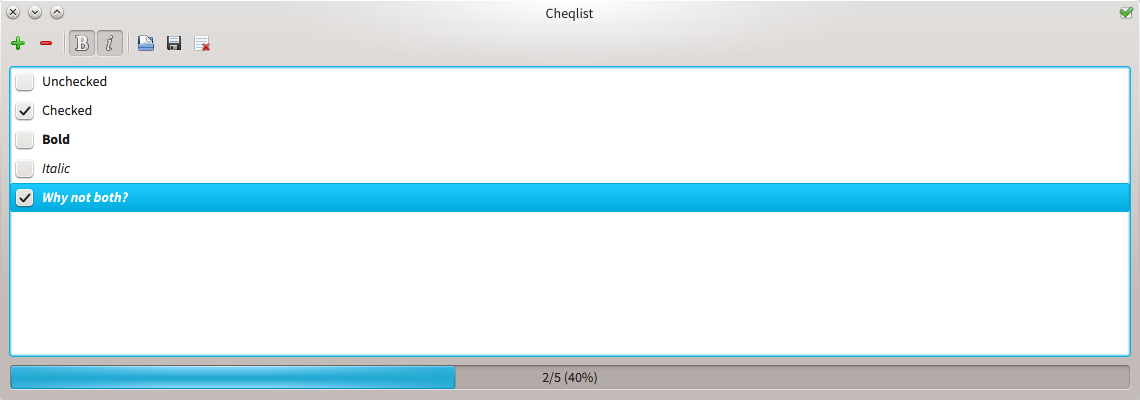
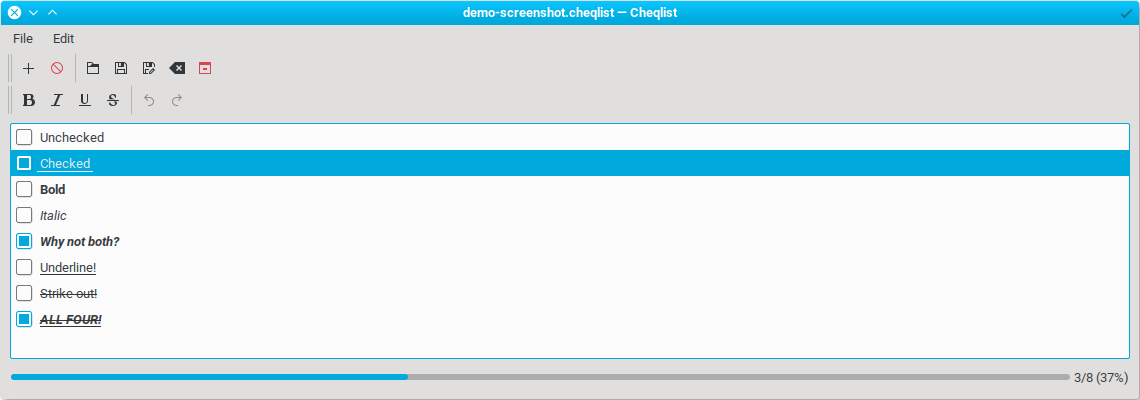
Update cheqlist screenshot

diff --git a/output/listings/code-writing-code/write_properties.py.html b/output/listings/code-writing-code/write_properties.py.html
@@ -122,44 +122,44 @@ article: http://ogp.me/ns/article#
 <a href="#listingscode-writing-codewrite_propertiespy-36">36</a>
 <a href="#listingscode-writing-codewrite_propertiespy-37">37</a>
 <a href="#listingscode-writing-codewrite_propertiespy-38">38</a></pre></div></td>
-<td class="code"><pre class="code literal-block"><a name="listingscode-writing-codewrite_propertiespy-1"></a><span class="ch">#!/usr/bin/env python3</span>
-<a name="listingscode-writing-codewrite_propertiespy-2"></a><span class="n">TEMPLATE</span> <span class="o">=</span> <span class="s2">"""</span><span class="se">\</span>
-<a name="listingscode-writing-codewrite_propertiespy-3"></a><span class="s2">        </span><span class="si">%s</span><span class="s2">public </span><span class="si">%s</span><span class="s2"> </span><span class="si">%s</span><span class="s2"> {</span>
-<a name="listingscode-writing-codewrite_propertiespy-4"></a><span class="s2">            get {</span>
-<a name="listingscode-writing-codewrite_propertiespy-5"></a><span class="s2">                return </span><span class="si">%s</span><span class="s2">_;</span>
-<a name="listingscode-writing-codewrite_propertiespy-6"></a><span class="s2">            }</span>
-<a name="listingscode-writing-codewrite_propertiespy-7"></a><span class="s2">            set {</span>
-<a name="listingscode-writing-codewrite_propertiespy-8"></a><span class="s2">                if (value != </span><span class="si">%s</span><span class="s2">_) {</span>
-<a name="listingscode-writing-codewrite_propertiespy-9"></a><span class="s2">                    </span><span class="si">%s</span><span class="s2">_ = value;</span>
-<a name="listingscode-writing-codewrite_propertiespy-10"></a><span class="s2">                    NotifyPropertyChanged("</span><span class="si">%s</span><span class="s2">");</span>
-<a name="listingscode-writing-codewrite_propertiespy-11"></a><span class="s2">                }</span>
-<a name="listingscode-writing-codewrite_propertiespy-12"></a><span class="s2">            }</span>
-<a name="listingscode-writing-codewrite_propertiespy-13"></a><span class="s2">        }</span>
-<a name="listingscode-writing-codewrite_propertiespy-14"></a><span class="s2">"""</span>
-<a name="listingscode-writing-codewrite_propertiespy-15"></a><span class="n">JSONPROPERTY_TEMPLATE</span> <span class="o">=</span> <span class="s1">'[JsonProperty]</span><span class="se">\n</span><span class="s1">        '</span>
+<td class="code"><pre class="code literal-block"><a name="listingscode-writing-codewrite_propertiespy-1"></a><span class="c">#!/usr/bin/env python3</span>
+<a name="listingscode-writing-codewrite_propertiespy-2"></a><span class="n">TEMPLATE</span> <span class="o">=</span> <span class="s">"""</span><span class="se">\</span>
+<a name="listingscode-writing-codewrite_propertiespy-3"></a><span class="s">        </span><span class="si">%s</span><span class="s">public </span><span class="si">%s</span><span class="s"> </span><span class="si">%s</span><span class="s"> {</span>
+<a name="listingscode-writing-codewrite_propertiespy-4"></a><span class="s">            get {</span>
+<a name="listingscode-writing-codewrite_propertiespy-5"></a><span class="s">                return </span><span class="si">%s</span><span class="s">_;</span>
+<a name="listingscode-writing-codewrite_propertiespy-6"></a><span class="s">            }</span>
+<a name="listingscode-writing-codewrite_propertiespy-7"></a><span class="s">            set {</span>
+<a name="listingscode-writing-codewrite_propertiespy-8"></a><span class="s">                if (value != </span><span class="si">%s</span><span class="s">_) {</span>
+<a name="listingscode-writing-codewrite_propertiespy-9"></a><span class="s">                    </span><span class="si">%s</span><span class="s">_ = value;</span>
+<a name="listingscode-writing-codewrite_propertiespy-10"></a><span class="s">                    NotifyPropertyChanged("</span><span class="si">%s</span><span class="s">");</span>
+<a name="listingscode-writing-codewrite_propertiespy-11"></a><span class="s">                }</span>
+<a name="listingscode-writing-codewrite_propertiespy-12"></a><span class="s">            }</span>
+<a name="listingscode-writing-codewrite_propertiespy-13"></a><span class="s">        }</span>
+<a name="listingscode-writing-codewrite_propertiespy-14"></a><span class="s">"""</span>
+<a name="listingscode-writing-codewrite_propertiespy-15"></a><span class="n">JSONPROPERTY_TEMPLATE</span> <span class="o">=</span> <span class="s">'[JsonProperty]</span><span class="se">\n</span><span class="s">        '</span>
 <a name="listingscode-writing-codewrite_propertiespy-16"></a>
 <a name="listingscode-writing-codewrite_propertiespy-17"></a><span class="k">def</span> <span class="nf">write</span><span class="p">(</span><span class="n">has_jsonproperty</span><span class="p">,</span> <span class="n">vtype</span><span class="p">,</span> <span class="n">name</span><span class="p">):</span>
 <a name="listingscode-writing-codewrite_propertiespy-18"></a>    <span class="k">if</span> <span class="n">has_jsonproperty</span><span class="p">:</span>
 <a name="listingscode-writing-codewrite_propertiespy-19"></a>        <span class="n">jsonproperty</span> <span class="o">=</span> <span class="n">JSONPROPERTY_TEMPLATE</span>
 <a name="listingscode-writing-codewrite_propertiespy-20"></a>    <span class="k">else</span><span class="p">:</span>
-<a name="listingscode-writing-codewrite_propertiespy-21"></a>        <span class="n">jsonproperty</span> <span class="o">=</span> <span class="s1">''</span>
+<a name="listingscode-writing-codewrite_propertiespy-21"></a>        <span class="n">jsonproperty</span> <span class="o">=</span> <span class="s">''</span>
 <a name="listingscode-writing-codewrite_propertiespy-22"></a>    <span class="k">return</span> <span class="n">TEMPLATE</span> <span class="o">%</span> <span class="p">(</span><span class="n">jsonproperty</span><span class="p">,</span> <span class="n">vtype</span><span class="p">,</span> <span class="n">name</span><span class="p">,</span> <span class="n">name</span><span class="p">,</span> <span class="n">name</span><span class="p">,</span> <span class="n">name</span><span class="p">,</span> <span class="n">name</span><span class="p">)</span>
 <a name="listingscode-writing-codewrite_propertiespy-23"></a>
 <a name="listingscode-writing-codewrite_propertiespy-24"></a><span class="n">properties</span> <span class="o">=</span> <span class="p">[</span>
-<a name="listingscode-writing-codewrite_propertiespy-25"></a>    <span class="s1">'1 string name'</span><span class="p">,</span>
-<a name="listingscode-writing-codewrite_propertiespy-26"></a>    <span class="s1">'0 int another'</span><span class="p">,</span>
-<a name="listingscode-writing-codewrite_propertiespy-27"></a>    <span class="c1"># 12 fields omitted for brevity</span>
+<a name="listingscode-writing-codewrite_propertiespy-25"></a>    <span class="s">'1 string name'</span><span class="p">,</span>
+<a name="listingscode-writing-codewrite_propertiespy-26"></a>    <span class="s">'0 int another'</span><span class="p">,</span>
+<a name="listingscode-writing-codewrite_propertiespy-27"></a>    <span class="c"># 12 fields omitted for brevity</span>
 <a name="listingscode-writing-codewrite_propertiespy-28"></a><span class="p">]</span>
 <a name="listingscode-writing-codewrite_propertiespy-29"></a><span class="n">properties_split</span> <span class="o">=</span> <span class="p">[</span><span class="n">p</span><span class="o">.</span><span class="n">split</span><span class="p">()</span> <span class="k">for</span> <span class="n">p</span> <span class="ow">in</span> <span class="n">properties</span><span class="p">]</span>
 <a name="listingscode-writing-codewrite_propertiespy-30"></a>
-<a name="listingscode-writing-codewrite_propertiespy-31"></a><span class="c1"># Private definitions (internal)</span>
+<a name="listingscode-writing-codewrite_propertiespy-31"></a><span class="c"># Private definitions (internal)</span>
 <a name="listingscode-writing-codewrite_propertiespy-32"></a><span class="k">for</span> <span class="n">has_jsonproperty</span><span class="p">,</span> <span class="n">vtype</span><span class="p">,</span> <span class="n">name</span> <span class="ow">in</span> <span class="n">properties_split</span><span class="p">:</span>
-<a name="listingscode-writing-codewrite_propertiespy-33"></a>    <span class="k">print</span><span class="p">(</span><span class="s2">"        private </span><span class="si">%s</span><span class="s2"> </span><span class="si">%s</span><span class="s2">_ { get; set; }"</span> <span class="o">%</span> <span class="p">(</span><span class="n">vtype</span><span class="p">,</span> <span class="n">name</span><span class="p">))</span>
+<a name="listingscode-writing-codewrite_propertiespy-33"></a>    <span class="k">print</span><span class="p">(</span><span class="s">"        private </span><span class="si">%s</span><span class="s"> </span><span class="si">%s</span><span class="s">_ { get; set; }"</span> <span class="o">%</span> <span class="p">(</span><span class="n">vtype</span><span class="p">,</span> <span class="n">name</span><span class="p">))</span>
 <a name="listingscode-writing-codewrite_propertiespy-34"></a>
 <a name="listingscode-writing-codewrite_propertiespy-35"></a><span class="k">print</span><span class="p">()</span>
-<a name="listingscode-writing-codewrite_propertiespy-36"></a><span class="c1"># Public definitions (with notifications)</span>
+<a name="listingscode-writing-codewrite_propertiespy-36"></a><span class="c"># Public definitions (with notifications)</span>
 <a name="listingscode-writing-codewrite_propertiespy-37"></a><span class="k">for</span> <span class="n">has_jsonproperty</span><span class="p">,</span> <span class="n">vtype</span><span class="p">,</span> <span class="n">name</span> <span class="ow">in</span> <span class="n">properties_split</span><span class="p">:</span>
-<a name="listingscode-writing-codewrite_propertiespy-38"></a>    <span class="k">print</span><span class="p">(</span><span class="n">write</span><span class="p">(</span><span class="n">has_jsonproperty</span> <span class="o">==</span> <span class="s1">'1'</span><span class="p">,</span> <span class="n">vtype</span><span class="p">,</span> <span class="n">name</span><span class="p">))</span>
+<a name="listingscode-writing-codewrite_propertiespy-38"></a>    <span class="k">print</span><span class="p">(</span><span class="n">write</span><span class="p">(</span><span class="n">has_jsonproperty</span> <span class="o">==</span> <span class="s">'1'</span><span class="p">,</span> <span class="n">vtype</span><span class="p">,</span> <span class="n">name</span><span class="p">))</span>
 </pre></td>
 </tr></table>
 </div>

diff --git a/output/listings/entry_points_project/my_project/__main__.py.html b/output/listings/entry_points_project/my_project/__main__.py.html
@@ -109,9 +109,9 @@ article: http://ogp.me/ns/article#
 <a href="#listingsentry_points_projectmy_project__main__py-22">22</a></pre></div></td>
 <td class="code"><pre class="code literal-block"><a name="listingsentry_points_projectmy_project__main__py-1"></a><span class="sd">"""The main routine of my_project."""</span>
 <a name="listingsentry_points_projectmy_project__main__py-2"></a>
-<a name="listingsentry_points_projectmy_project__main__py-3"></a><span class="c1"># Copyright (C) 2014 Chris Warrick.</span>
-<a name="listingsentry_points_projectmy_project__main__py-4"></a><span class="c1"># From: http://chriswarrick.com/</span>
-<a name="listingsentry_points_projectmy_project__main__py-5"></a><span class="c1"># License: CC BY http://creativecommons.org/licenses/by/3.0/</span>
+<a name="listingsentry_points_projectmy_project__main__py-3"></a><span class="c"># Copyright (C) 2014 Chris Warrick.</span>
+<a name="listingsentry_points_projectmy_project__main__py-4"></a><span class="c"># From: http://chriswarrick.com/</span>
+<a name="listingsentry_points_projectmy_project__main__py-5"></a><span class="c"># License: CC BY http://creativecommons.org/licenses/by/3.0/</span>
 <a name="listingsentry_points_projectmy_project__main__py-6"></a>
 <a name="listingsentry_points_projectmy_project__main__py-7"></a><span class="kn">import</span> <span class="nn">sys</span>
 <a name="listingsentry_points_projectmy_project__main__py-8"></a>
@@ -121,13 +121,13 @@ article: http://ogp.me/ns/article#
 <a name="listingsentry_points_projectmy_project__main__py-12"></a>    <span class="k">if</span> <span class="n">args</span> <span class="ow">is</span> <span class="bp">None</span><span class="p">:</span>
 <a name="listingsentry_points_projectmy_project__main__py-13"></a>        <span class="n">args</span> <span class="o">=</span> <span class="n">sys</span><span class="o">.</span><span class="n">argv</span><span class="p">[</span><span class="mi">1</span><span class="p">:]</span>
 <a name="listingsentry_points_projectmy_project__main__py-14"></a>
-<a name="listingsentry_points_projectmy_project__main__py-15"></a>    <span class="k">print</span><span class="p">(</span><span class="s2">"This is the main routine."</span><span class="p">)</span>
-<a name="listingsentry_points_projectmy_project__main__py-16"></a>    <span class="k">print</span><span class="p">(</span><span class="s2">"It should do something interesting."</span><span class="p">)</span>
+<a name="listingsentry_points_projectmy_project__main__py-15"></a>    <span class="k">print</span><span class="p">(</span><span class="s">"This is the main routine."</span><span class="p">)</span>
+<a name="listingsentry_points_projectmy_project__main__py-16"></a>    <span class="k">print</span><span class="p">(</span><span class="s">"It should do something interesting."</span><span class="p">)</span>
 <a name="listingsentry_points_projectmy_project__main__py-17"></a>
-<a name="listingsentry_points_projectmy_project__main__py-18"></a>    <span class="c1"># Do argument parsing here (eg. with argparse) and anything else</span>
-<a name="listingsentry_points_projectmy_project__main__py-19"></a>    <span class="c1"># you want your project to do.</span>
+<a name="listingsentry_points_projectmy_project__main__py-18"></a>    <span class="c"># Do argument parsing here (eg. with argparse) and anything else</span>
+<a name="listingsentry_points_projectmy_project__main__py-19"></a>    <span class="c"># you want your project to do.</span>
 <a name="listingsentry_points_projectmy_project__main__py-20"></a>
-<a name="listingsentry_points_projectmy_project__main__py-21"></a><span class="k">if</span> <span class="n">__name__</span> <span class="o">==</span> <span class="s2">"__main__"</span><span class="p">:</span>
+<a name="listingsentry_points_projectmy_project__main__py-21"></a><span class="k">if</span> <span class="n">__name__</span> <span class="o">==</span> <span class="s">"__main__"</span><span class="p">:</span>
 <a name="listingsentry_points_projectmy_project__main__py-22"></a>    <span class="n">main</span><span class="p">()</span>
 </pre></td>
 </tr></table>

diff --git a/output/listings/entry_points_project/setup.py.html b/output/listings/entry_points_project/setup.py.html
@@ -99,18 +99,18 @@ article: http://ogp.me/ns/article#
 <a href="#listingsentry_points_projectsetuppy-13">13</a>
 <a href="#listingsentry_points_projectsetuppy-14">14</a>
 <a href="#listingsentry_points_projectsetuppy-15">15</a></pre></div></td>
-<td class="code"><pre class="code literal-block"><a name="listingsentry_points_projectsetuppy-1"></a><span class="c1"># Copyright (C) 2014 Chris Warrick.</span>
-<a name="listingsentry_points_projectsetuppy-2"></a><span class="c1"># From: http://chriswarrick.com/</span>
-<a name="listingsentry_points_projectsetuppy-3"></a><span class="c1"># License: CC BY http://creativecommons.org/licenses/by/3.0/</span>
+<td class="code"><pre class="code literal-block"><a name="listingsentry_points_projectsetuppy-1"></a><span class="c"># Copyright (C) 2014 Chris Warrick.</span>
+<a name="listingsentry_points_projectsetuppy-2"></a><span class="c"># From: http://chriswarrick.com/</span>
+<a name="listingsentry_points_projectsetuppy-3"></a><span class="c"># License: CC BY http://creativecommons.org/licenses/by/3.0/</span>
 <a name="listingsentry_points_projectsetuppy-4"></a>
 <a name="listingsentry_points_projectsetuppy-5"></a><span class="kn">from</span> <span class="nn">setuptools</span> <span class="kn">import</span> <span class="n">setup</span>
 <a name="listingsentry_points_projectsetuppy-6"></a>
-<a name="listingsentry_points_projectsetuppy-7"></a><span class="n">setup</span><span class="p">(</span><span class="n">name</span><span class="o">=</span><span class="s1">'my_project'</span><span class="p">,</span>
-<a name="listingsentry_points_projectsetuppy-8"></a>      <span class="n">version</span><span class="o">=</span><span class="s1">'0.1.0'</span><span class="p">,</span>
-<a name="listingsentry_points_projectsetuppy-9"></a>      <span class="n">packages</span><span class="o">=</span><span class="p">[</span><span class="s1">'my_project'</span><span class="p">],</span>
+<a name="listingsentry_points_projectsetuppy-7"></a><span class="n">setup</span><span class="p">(</span><span class="n">name</span><span class="o">=</span><span class="s">'my_project'</span><span class="p">,</span>
+<a name="listingsentry_points_projectsetuppy-8"></a>      <span class="n">version</span><span class="o">=</span><span class="s">'0.1.0'</span><span class="p">,</span>
+<a name="listingsentry_points_projectsetuppy-9"></a>      <span class="n">packages</span><span class="o">=</span><span class="p">[</span><span class="s">'my_project'</span><span class="p">],</span>
 <a name="listingsentry_points_projectsetuppy-10"></a>      <span class="n">entry_points</span><span class="o">=</span><span class="p">{</span>
-<a name="listingsentry_points_projectsetuppy-11"></a>          <span class="s1">'console_scripts'</span><span class="p">:</span> <span class="p">[</span>
-<a name="listingsentry_points_projectsetuppy-12"></a>              <span class="s1">'my_project = my_project.__main__:main'</span>
+<a name="listingsentry_points_projectsetuppy-11"></a>          <span class="s">'console_scripts'</span><span class="p">:</span> <span class="p">[</span>
+<a name="listingsentry_points_projectsetuppy-12"></a>              <span class="s">'my_project = my_project.__main__:main'</span>
 <a name="listingsentry_points_projectsetuppy-13"></a>          <span class="p">]</span>
 <a name="listingsentry_points_projectsetuppy-14"></a>      <span class="p">},</span>
 <a name="listingsentry_points_projectsetuppy-15"></a>      <span class="p">)</span>

diff --git a/output/listings/entry_points_project/my_project/__init__.py.html b/output/listings/entry_points_project/my_project/__init__.py.html
@@ -96,13 +96,13 @@ article: http://ogp.me/ns/article#
 <a href="#listingsentry_points_projectmy_project__init__py-9">9</a></pre></div></td>
 <td class="code"><pre class="code literal-block"><a name="listingsentry_points_projectmy_project__init__py-1"></a><span class="sd">"""A sample project, showcasing __main__.py and entry_points."""</span>
 <a name="listingsentry_points_projectmy_project__init__py-2"></a>
-<a name="listingsentry_points_projectmy_project__init__py-3"></a><span class="c1"># This is the __init__.py file of my_project, and is the root of the package.</span>
-<a name="listingsentry_points_projectmy_project__init__py-4"></a><span class="c1"># Put anything you want here, or even make it empty, but it MUST exist</span>
-<a name="listingsentry_points_projectmy_project__init__py-5"></a><span class="c1"># for everything to work.</span>
+<a name="listingsentry_points_projectmy_project__init__py-3"></a><span class="c"># This is the __init__.py file of my_project, and is the root of the package.</span>
+<a name="listingsentry_points_projectmy_project__init__py-4"></a><span class="c"># Put anything you want here, or even make it empty, but it MUST exist</span>
+<a name="listingsentry_points_projectmy_project__init__py-5"></a><span class="c"># for everything to work.</span>
 <a name="listingsentry_points_projectmy_project__init__py-6"></a>
-<a name="listingsentry_points_projectmy_project__init__py-7"></a><span class="c1"># Copyright (C) 2014 Chris Warrick.</span>
-<a name="listingsentry_points_projectmy_project__init__py-8"></a><span class="c1"># From: http://chriswarrick.com/</span>
-<a name="listingsentry_points_projectmy_project__init__py-9"></a><span class="c1"># License: CC BY http://creativecommons.org/licenses/by/3.0/</span>
+<a name="listingsentry_points_projectmy_project__init__py-7"></a><span class="c"># Copyright (C) 2014 Chris Warrick.</span>
+<a name="listingsentry_points_projectmy_project__init__py-8"></a><span class="c"># From: http://chriswarrick.com/</span>
+<a name="listingsentry_points_projectmy_project__init__py-9"></a><span class="c"># License: CC BY http://creativecommons.org/licenses/by/3.0/</span>
 </pre></td>
 </tr></table>
 </div>

diff --git a/output/pl/projects/cheqlist/index.html b/output/pl/projects/cheqlist/index.html
@@ -128,7 +128,8 @@ article: http://ogp.me/ns/article#
     </div>
 
           <div>
-<p><tt class="docutils literal">cheqlist</tt> is a simple check list application for&nbsp;Qt.</p>
+<p><tt class="docutils literal">cheqlist</tt> is a simple check list application for Qt. It supports formatting,
+file input/output, and an undo&nbsp;stack.</p>
 <div class="figure">
 <a class="reference external image-reference" href="/projects/_banners/cheqlist.png"><img alt="/projects/_banners/cheqlist.thumbnail.png" src="/projects/_banners/cheqlist.thumbnail.png"></a>
 <p class="caption">Cheqlist&nbsp;screenshot.</p>

diff --git a/output/projects/cheqlist/index.html b/output/projects/cheqlist/index.html
@@ -128,7 +128,8 @@ article: http://ogp.me/ns/article#
     </div>
 
           <div>
-<p><tt class="docutils literal">cheqlist</tt> is a simple check list application for&nbsp;Qt.</p>
+<p><tt class="docutils literal">cheqlist</tt> is a simple check list application for Qt. It supports formatting,
+file input/output, and an undo&nbsp;stack.</p>
 <div class="figure">
 <a class="reference external image-reference" href="/projects/_banners/cheqlist.png"><img alt="/projects/_banners/cheqlist.thumbnail.png" src="/projects/_banners/cheqlist.thumbnail.png"></a>
 <p class="caption">Cheqlist&nbsp;screenshot.</p>

diff --git a/output/assets/css/all.css b/output/assets/css/all.css
@@ -7384,6 +7384,14 @@ article.post-micro {
     border-top: 1px solid #e5e5e5;
 }
 
+.codetable {
+    table-layout: fixed;
+}
+
+.codetable pre {
+    overflow-x: scroll;
+}
+
 /* hat tip bootstrap/html5 boilerplate */
 @media print {
     *, *:before, *:after {

diff --git a/output/assets/css/theme.css b/output/assets/css/theme.css
@@ -177,6 +177,14 @@ article.post-micro {
     border-top: 1px solid #e5e5e5;
 }
 
+.codetable {
+    table-layout: fixed;
+}
+
+.codetable pre {
+    overflow-x: scroll;
+}
+
 /* hat tip bootstrap/html5 boilerplate */
 @media print {
     *, *:before, *:after {

diff --git a/projects/cheqlist.rst b/projects/cheqlist.rst
@@ -13,7 +13,8 @@
 .. featured: true
 .. previewimage: /projects/_banners/cheqlist.png
 
-``cheqlist`` is a simple check list application for Qt.
+``cheqlist`` is a simple check list application for Qt. It supports formatting,
+file input/output, and an undo stack.
 
 .. thumbnail:: /projects/_banners/cheqlist.png
 
